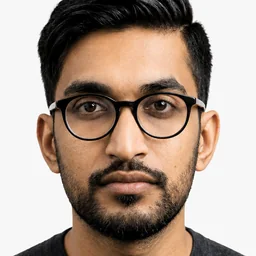
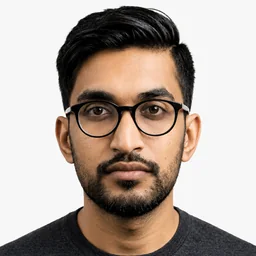
Blog author: Fractional Director of Growth; show the full headshot
Role line and JSON-LD jobTitle now read "Fractional Director of Growth".
Re-cropped assets/authors/naman-nepal.webp so the whole head sits inside
the round avatar instead of being cut off at the top.

diff --git a/blog/_template/index.html b/blog/_template/index.html
@@ -102,7 +102,7 @@
     "name": "Naman Nepal",
     "url": "https://namannepal.com/",
     "image": "https://secondfactor.ai/assets/authors/naman-nepal.webp",
-    "jobTitle": "SEO and content marketing advisor",
+    "jobTitle": "Fractional Director of Growth",
     "sameAs": [
      "https://www.linkedin.com/in/namannepal/",
      "https://x.com/growthpolice"
@@ -352,7 +352,7 @@
         <span class="post-avatar" aria-hidden="true"><img src="/assets/authors/naman-nepal.webp" alt="" width="52" height="52" loading="lazy" decoding="async"></span><!-- EDIT -->
         <div>
           <p class="post-author-n"><a href="https://namannepal.com/" target="_blank" rel="noopener author">Naman Nepal</a></p><!-- EDIT -->
-          <p class="post-author-r">SEO and content marketing advisor</p><!-- EDIT -->
+          <p class="post-author-r">Fractional Director of Growth</p><!-- EDIT -->
           <p class="post-author-b">Naman has over a decade of experience in content marketing and SEO. He advises B2B and SaaS companies on search and content strategy, helping them drive organic growth and qualified pipeline.</p><!-- EDIT -->
         </div>
       </div>

diff --git a/blog/nodejs-phone-verification/index.html b/blog/nodejs-phone-verification/index.html
@@ -96,7 +96,7 @@
     "name": "Naman Nepal",
     "url": "https://namannepal.com/",
     "image": "https://secondfactor.ai/assets/authors/naman-nepal.webp",
-    "jobTitle": "SEO and content marketing advisor",
+    "jobTitle": "Fractional Director of Growth",
     "sameAs": [
      "https://www.linkedin.com/in/namannepal/",
      "https://x.com/growthpolice"
@@ -480,7 +480,7 @@ app.listen(process.env.PORT || 3000, () =&gt; {
         <span class="post-avatar" aria-hidden="true"><img src="/assets/authors/naman-nepal.webp" alt="" width="52" height="52" loading="lazy" decoding="async"></span>
         <div>
           <p class="post-author-n"><a href="https://namannepal.com/" target="_blank" rel="noopener author">Naman Nepal</a></p>
-          <p class="post-author-r">SEO and content marketing advisor</p>
+          <p class="post-author-r">Fractional Director of Growth</p>
           <p class="post-author-b">Naman has over a decade of experience in content marketing and SEO. He advises B2B and SaaS companies on search and content strategy, helping them drive organic growth and qualified pipeline.</p>
         </div>
       </div>

diff --git a/blog/best-otp-service-providers/index.html b/blog/best-otp-service-providers/index.html
@@ -96,7 +96,7 @@
     "name": "Naman Nepal",
     "url": "https://namannepal.com/",
     "image": "https://secondfactor.ai/assets/authors/naman-nepal.webp",
-    "jobTitle": "SEO and content marketing advisor",
+    "jobTitle": "Fractional Director of Growth",
     "sameAs": [
      "https://www.linkedin.com/in/namannepal/",
      "https://x.com/growthpolice"
@@ -362,7 +362,7 @@
         <span class="post-avatar" aria-hidden="true"><img src="/assets/authors/naman-nepal.webp" alt="" width="52" height="52" loading="lazy" decoding="async"></span>
         <div>
           <p class="post-author-n"><a href="https://namannepal.com/" target="_blank" rel="noopener author">Naman Nepal</a></p>
-          <p class="post-author-r">SEO and content marketing advisor</p>
+          <p class="post-author-r">Fractional Director of Growth</p>
           <p class="post-author-b">Naman has over a decade of experience in content marketing and SEO. He advises B2B and SaaS companies on search and content strategy, helping them drive organic growth and qualified pipeline.</p>
         </div>
       </div>

diff --git a/blog/best-sms-otp-providers/index.html b/blog/best-sms-otp-providers/index.html
@@ -96,7 +96,7 @@
     "name": "Naman Nepal",
     "url": "https://namannepal.com/",
     "image": "https://secondfactor.ai/assets/authors/naman-nepal.webp",
-    "jobTitle": "SEO and content marketing advisor",
+    "jobTitle": "Fractional Director of Growth",
     "sameAs": [
      "https://www.linkedin.com/in/namannepal/",
      "https://x.com/growthpolice"
@@ -360,7 +360,7 @@
         <span class="post-avatar" aria-hidden="true"><img src="/assets/authors/naman-nepal.webp" alt="" width="52" height="52" loading="lazy" decoding="async"></span>
         <div>
           <p class="post-author-n"><a href="https://namannepal.com/" target="_blank" rel="noopener author">Naman Nepal</a></p>
-          <p class="post-author-r">SEO and content marketing advisor</p>
+          <p class="post-author-r">Fractional Director of Growth</p>
           <p class="post-author-b">Naman has over a decade of experience in content marketing and SEO. He advises B2B and SaaS companies on search and content strategy, helping them drive organic growth and qualified pipeline.</p>
         </div>
       </div>

diff --git a/blog/best-whatsapp-otp-providers/index.html b/blog/best-whatsapp-otp-providers/index.html
@@ -96,7 +96,7 @@
     "name": "Naman Nepal",
     "url": "https://namannepal.com/",
     "image": "https://secondfactor.ai/assets/authors/naman-nepal.webp",
-    "jobTitle": "SEO and content marketing advisor",
+    "jobTitle": "Fractional Director of Growth",
     "sameAs": [
      "https://www.linkedin.com/in/namannepal/",
      "https://x.com/growthpolice"
@@ -351,7 +351,7 @@
         <span class="post-avatar" aria-hidden="true"><img src="/assets/authors/naman-nepal.webp" alt="" width="52" height="52" loading="lazy" decoding="async"></span>
         <div>
           <p class="post-author-n"><a href="https://namannepal.com/" target="_blank" rel="noopener author">Naman Nepal</a></p>
-          <p class="post-author-r">SEO and content marketing advisor</p>
+          <p class="post-author-r">Fractional Director of Growth</p>
           <p class="post-author-b">Naman has over a decade of experience in content marketing and SEO. He advises B2B and SaaS companies on search and content strategy, helping them drive organic growth and qualified pipeline.</p>
         </div>
       </div>

diff --git a/blog/reduce-otp-verification-costs/index.html b/blog/reduce-otp-verification-costs/index.html
@@ -96,7 +96,7 @@
     "name": "Naman Nepal",
     "url": "https://namannepal.com/",
     "image": "https://secondfactor.ai/assets/authors/naman-nepal.webp",
-    "jobTitle": "SEO and content marketing advisor",
+    "jobTitle": "Fractional Director of Growth",
     "sameAs": [
      "https://www.linkedin.com/in/namannepal/",
      "https://x.com/growthpolice"
@@ -320,7 +320,7 @@
         <span class="post-avatar" aria-hidden="true"><img src="/assets/authors/naman-nepal.webp" alt="" width="52" height="52" loading="lazy" decoding="async"></span>
         <div>
           <p class="post-author-n"><a href="https://namannepal.com/" target="_blank" rel="noopener author">Naman Nepal</a></p>
-          <p class="post-author-r">SEO and content marketing advisor</p>
+          <p class="post-author-r">Fractional Director of Growth</p>
           <p class="post-author-b">Naman has over a decade of experience in content marketing and SEO. He advises B2B and SaaS companies on search and content strategy, helping them drive organic growth and qualified pipeline.</p>
         </div>
       </div>

diff --git a/blog/sinch-verification-alternatives/index.html b/blog/sinch-verification-alternatives/index.html
@@ -96,7 +96,7 @@
     "name": "Naman Nepal",
     "url": "https://namannepal.com/",
     "image": "https://secondfactor.ai/assets/authors/naman-nepal.webp",
-    "jobTitle": "SEO and content marketing advisor",
+    "jobTitle": "Fractional Director of Growth",
     "sameAs": [
      "https://www.linkedin.com/in/namannepal/",
      "https://x.com/growthpolice"
@@ -377,7 +377,7 @@
         <span class="post-avatar" aria-hidden="true"><img src="/assets/authors/naman-nepal.webp" alt="" width="52" height="52" loading="lazy" decoding="async"></span>
         <div>
           <p class="post-author-n"><a href="https://namannepal.com/" target="_blank" rel="noopener author">Naman Nepal</a></p>
-          <p class="post-author-r">SEO and content marketing advisor</p>
+          <p class="post-author-r">Fractional Director of Growth</p>
           <p class="post-author-b">Naman has over a decade of experience in content marketing and SEO. He advises B2B and SaaS companies on search and content strategy, helping them drive organic growth and qualified pipeline.</p>
         </div>
       </div>

diff --git a/blog/twilio-verify-alternatives/index.html b/blog/twilio-verify-alternatives/index.html
@@ -96,7 +96,7 @@
     "name": "Naman Nepal",
     "url": "https://namannepal.com/",
     "image": "https://secondfactor.ai/assets/authors/naman-nepal.webp",
-    "jobTitle": "SEO and content marketing advisor",
+    "jobTitle": "Fractional Director of Growth",
     "sameAs": [
      "https://www.linkedin.com/in/namannepal/",
      "https://x.com/growthpolice"
@@ -343,7 +343,7 @@
         <span class="post-avatar" aria-hidden="true"><img src="/assets/authors/naman-nepal.webp" alt="" width="52" height="52" loading="lazy" decoding="async"></span>
         <div>
           <p class="post-author-n"><a href="https://namannepal.com/" target="_blank" rel="noopener author">Naman Nepal</a></p>
-          <p class="post-author-r">SEO and content marketing advisor</p>
+          <p class="post-author-r">Fractional Director of Growth</p>
           <p class="post-author-b">Naman has over a decade of experience in content marketing and SEO. He advises B2B and SaaS companies on search and content strategy, helping them drive organic growth and qualified pipeline.</p>
         </div>
       </div>

diff --git a/blog/vonage-verify-alternatives/index.html b/blog/vonage-verify-alternatives/index.html
@@ -96,7 +96,7 @@
     "name": "Naman Nepal",
     "url": "https://namannepal.com/",
     "image": "https://secondfactor.ai/assets/authors/naman-nepal.webp",
-    "jobTitle": "SEO and content marketing advisor",
+    "jobTitle": "Fractional Director of Growth",
     "sameAs": [
      "https://www.linkedin.com/in/namannepal/",
      "https://x.com/growthpolice"
@@ -374,7 +374,7 @@
         <span class="post-avatar" aria-hidden="true"><img src="/assets/authors/naman-nepal.webp" alt="" width="52" height="52" loading="lazy" decoding="async"></span>
         <div>
           <p class="post-author-n"><a href="https://namannepal.com/" target="_blank" rel="noopener author">Naman Nepal</a></p>
-          <p class="post-author-r">SEO and content marketing advisor</p>
+          <p class="post-author-r">Fractional Director of Growth</p>
           <p class="post-author-b">Naman has over a decade of experience in content marketing and SEO. He advises B2B and SaaS companies on search and content strategy, helping them drive organic growth and qualified pipeline.</p>
         </div>
       </div>
